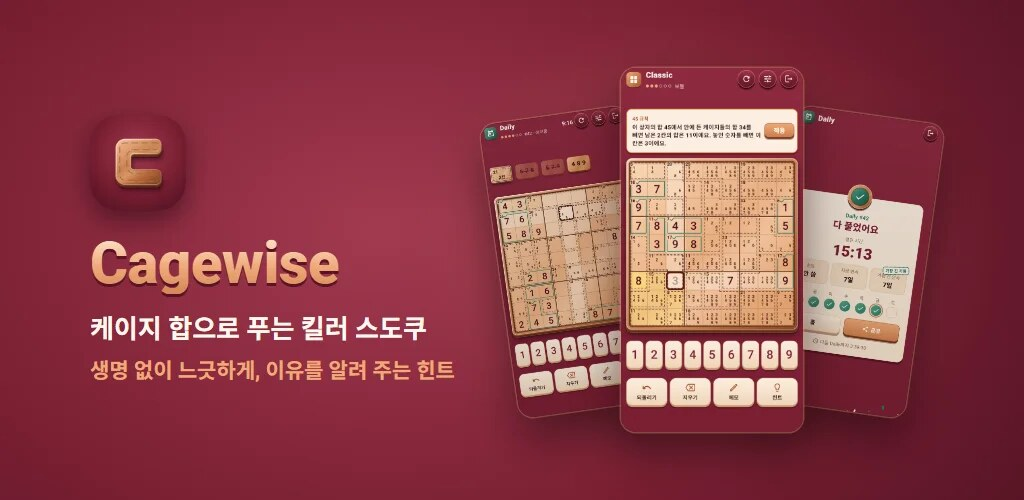
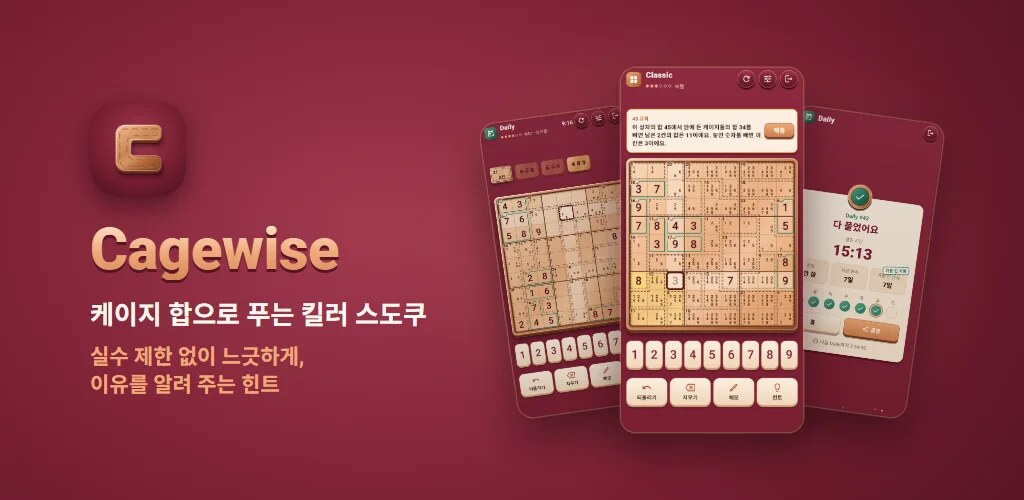
[A00.WilleeProject] + Cagewise 한국어 설명서·공유 그림의 '생명 없이'를 '실수 제한 없이'로
- A33 원고 한국어 설명서 3줄과 한국어 그래픽 이미지 둘째 줄, 2026-10-18 사용자 의견

diff --git a/apps/cagewise/manual/ko.html b/apps/cagewise/manual/ko.html
@@ -139,7 +139,7 @@
         <p>9×9 판에 1~9를 채우는 스도쿠에 <strong>케이지</strong>(점선으로 묶은 칸 무리와 그 합)를 더한 논리 퍼즐, 킬러 스도쿠입니다. 케이지의 합을 실마리 삼아 차근차근 따져 나가면 풀립니다.</p>
         <ul>
             <li>판마다 답은 하나뿐이고, 찍지 않고 차례로 따져 나가면 풀리는 판만 나옵니다.</li>
-            <li>생명이 없습니다. 틀려도 판이 끝나지 않고, 힌트와 되돌리기는 횟수 제한이 없습니다. 시간 제한도 없습니다.</li>
+            <li>실수 제한이 없습니다. 틀려도 판이 끝나지 않고, 힌트와 되돌리기는 횟수 제한이 없습니다. 시간 제한도 없습니다.</li>
             <li>회원가입도, 로그인도 없습니다. 처음 켜면 작은 판(6×6) 하나로 규칙을 익히는 처음 안내부터 시작합니다. <strong>건너뛰기</strong>로 언제든 마칠 수 있습니다.</li>
             <li><strong>인터넷 없이도 게임은 됩니다.</strong> 인터넷은 화면 아래 광고와 이용 통계·오류 보고를 보낼 때만 씁니다.</li>
             <li>언어는 기기 설정을 따릅니다. 한국어·영어·일본어·중국어(간체·번체)를 지원하고, 설정에서 직접 고를 수도 있습니다.</li>
@@ -157,7 +157,7 @@
             <li>한 케이지 안에는 같은 숫자가 두 번 들어가지 않습니다.</li>
             <li><strong>입문</strong> 등급에는 처음부터 주어진 숫자가 몇 개 있습니다(굵게 보이고 바꿀 수 없습니다). <strong>쉬움</strong>부터는 주어진 숫자 없이 케이지의 합만으로 풉니다.</li>
             <li>모든 칸이 답과 같아지면 성공입니다. 답은 하나뿐이고, 찍지 않고 풀립니다.</li>
-            <li>생명이 없습니다. 숫자를 틀리게 놓아도 판이 끝나지 않습니다.</li>
+            <li>실수 제한이 없습니다. 숫자를 틀리게 놓아도 판이 끝나지 않습니다.</li>
         </ul>
         <h3>케이지 표시</h3>
         <ul>
@@ -262,7 +262,7 @@
             <li>날마다 9×9 판 하나가 나옵니다. 쉬움·보통·어려움이 차례로 돌아가며 나오고, 게임 화면 위쪽에 번호와 등급이 보입니다(예: #12 · 어려움). <strong>전 세계 모두가 같은 날 같은 판</strong>을 풉니다(기기의 날짜 기준). 새 Daily는 기기 시각으로 자정에 열립니다.</li>
             <li>시간 제한은 없고, 지금까지 쓴 시간이 위쪽에 보입니다. 힌트를 쓸 수 있고, 쓴 힌트 수는 결과에 남습니다.</li>
             <li>그날 안에는 나갔다 와도 이어서 풉니다. <strong>이 판 처음부터</strong>를 해도 시간과 힌트는 이어서 셉니다. 날이 바뀌면 풀다 만 어제 판은 사라지고 새 판이 열립니다.</li>
-            <li>판을 푼 날마다 연속 기록이 이어지고, 하루를 거르면 끊깁니다. 생명이 없고 힌트가 무제한이라 실패는 없습니다.</li>
+            <li>판을 푼 날마다 연속 기록이 이어지고, 하루를 거르면 끊깁니다. 실수 제한이 없고 힌트가 무제한이라 실패는 없습니다.</li>
             <li>홈의 <strong>Daily</strong> 카드에는 이번 주 일곱 날이 보이고, 푼 날에는 체크가 찍힙니다. 카드를 누르면 오늘 판을 풀거나, 이미 풀었으면 결과를 봅니다.</li>
             <li>결과 화면에는 Daily 번호, 걸린 시간, 힌트, 지금 연속과 가장 긴 연속, 다음 Daily까지 남은 시간이 보입니다. <strong>공유</strong>로 결과를 보낼 수 있습니다. 예:</li>
         </ul>
